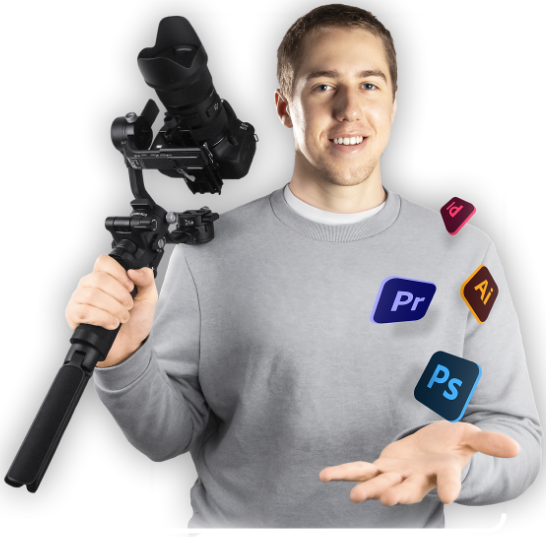
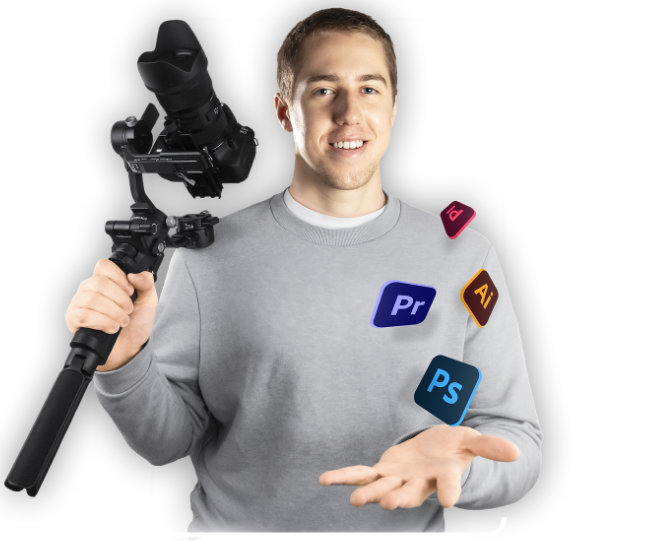
Corrections espacement accueil

diff --git a/pages/index.vue b/pages/index.vue
@@ -227,9 +227,8 @@ section {
         display: flex;
         flex-wrap: wrap;
         align-items: center;
-        justify-content: center;
+        justify-content: space-evenly;
         flex-wrap: wrap-reverse;
-        gap: 50px 100px;
         text-align: center;
         @media (min-width: 768px) {
             text-align: left;
